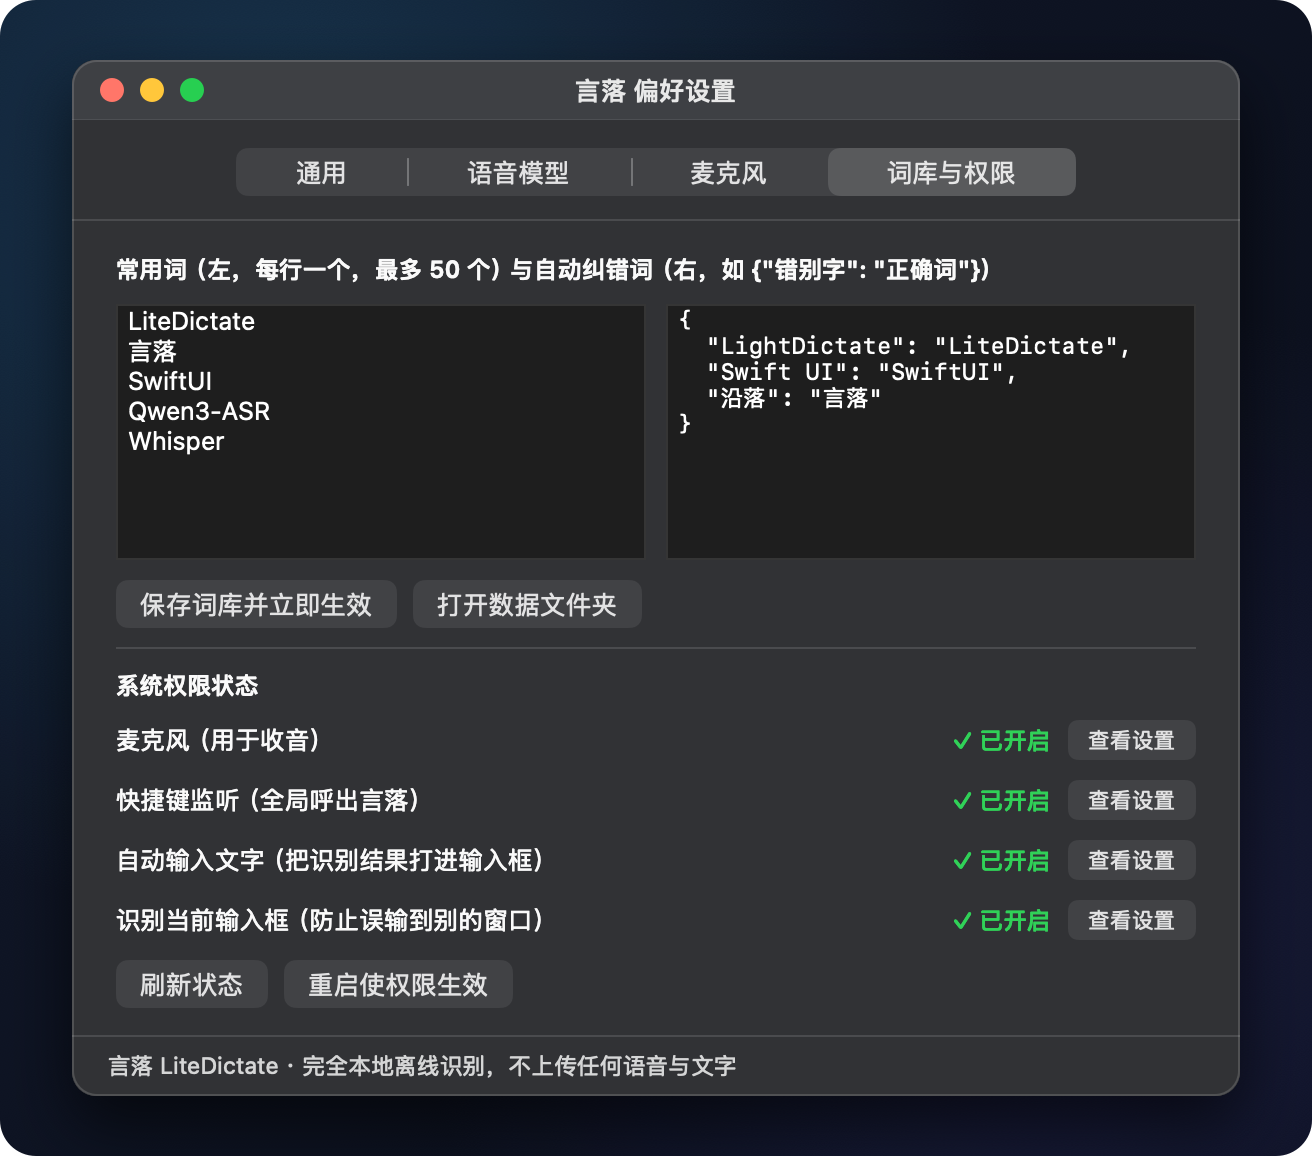
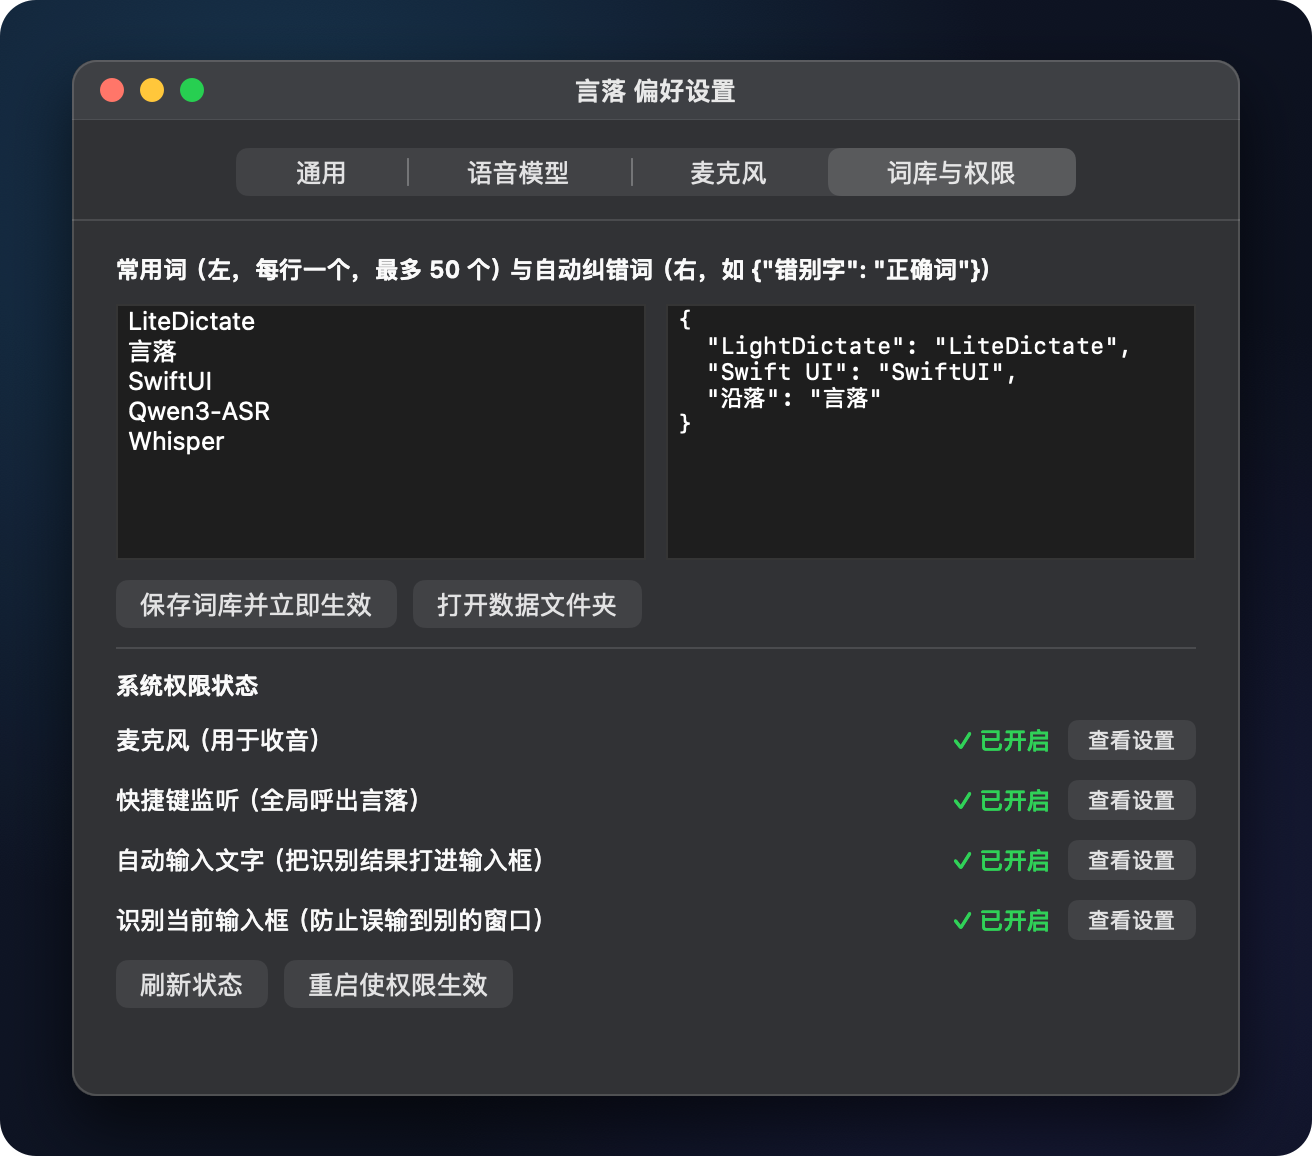
polish: remove redundant footer hint from Preferences window and update screenshots

Changed region(s): [[0.0625, 0.9031, 0.5625, 0.9343]]

diff --git a/Sources/LiteDictateApp/SettingsWindowController.swift b/Sources/LiteDictateApp/SettingsWindowController.swift
@@ -210,6 +210,7 @@ final class SettingsWindowController: NSWindowController, NSWindowDelegate, NSTe
     private var hotkeyRecorder: HotkeyRecorderButton?
     private var vocabTextView: NSTextView?
     private var aliasesTextView: NSTextView?
+    private var footerDivider: NSBox?
     private var statusFooterLabel: NSTextField?
     private var hasUnsavedDictEdits: Bool = false
 
@@ -302,6 +303,7 @@ final class SettingsWindowController: NSWindowController, NSWindowDelegate, NSTe
         contentContainer = nil
         segmentedTabs = nil
         statusFooterLabel = nil
+        footerDivider = nil
         window?.contentView = nil
         window?.delegate = nil
         onDidClose()
@@ -371,20 +373,26 @@ final class SettingsWindowController: NSWindowController, NSWindowDelegate, NSTe
         window.contentView = root
         self.segmentedTabs = tabs
         self.contentContainer = container
+        self.footerDivider = footerDivider
         self.statusFooterLabel = footer
         updateStatusFooter()
     }
 
     private func updateStatusFooter() {
         if let err = snapshot.lastErrorMessage, !err.isEmpty {
+            footerDivider?.isHidden = false
+            statusFooterLabel?.isHidden = false
             statusFooterLabel?.stringValue = "⚠ \(err)"
             statusFooterLabel?.textColor = .systemOrange
         } else if let notice = snapshot.lastNoticeMessage, !notice.isEmpty {
+            footerDivider?.isHidden = false
+            statusFooterLabel?.isHidden = false
             statusFooterLabel?.stringValue = notice
             statusFooterLabel?.textColor = .secondaryLabelColor
         } else {
-            statusFooterLabel?.stringValue = "言落 LiteDictate · 完全本地离线识别，不上传任何语音与文字"
-            statusFooterLabel?.textColor = .secondaryLabelColor
+            footerDivider?.isHidden = true
+            statusFooterLabel?.isHidden = true
+            statusFooterLabel?.stringValue = ""
         }
     }
 

diff --git a/README.md b/README.md
@@ -70,7 +70,7 @@
     <td align="center" colspan="2">
       <img src="docs/images/settings-dict-perms.png" width="540" alt="常用词、自动纠错与系统权限" />
       <br />
-      <sub><strong>常用词库与权限面板</strong> · 专业术语提示、自动纠错映射与一站式系统权限引导</sub>
+      <sub><strong>常用词库与权限</strong> · 常用词、自动纠错与系统权限管理</sub>
     </td>
   </tr>
 </table>

diff --git a/README_EN.md b/README_EN.md
@@ -70,7 +70,7 @@
     <td align="center" colspan="2">
       <img src="docs/images/settings-dict-perms.png" width="540" alt="Vocabulary, Aliases & Permissions" />
       <br />
-      <sub><strong>Dictionary & Permissions</strong> · Custom vocabulary, auto-corrections & guided TCC setup</sub>
+      <sub><strong>Dictionary & Permissions</strong> · Custom words, auto-corrections & permissions</sub>
     </td>
   </tr>
 </table>
